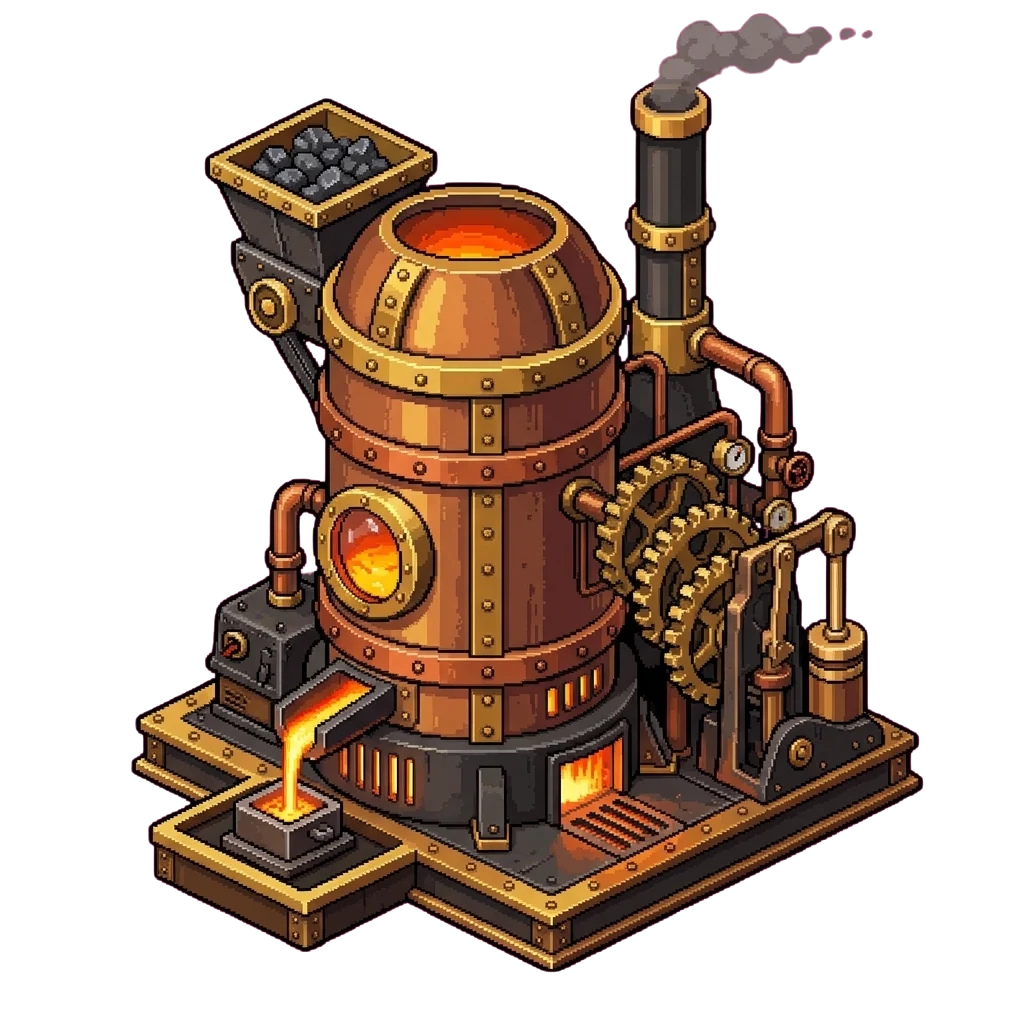
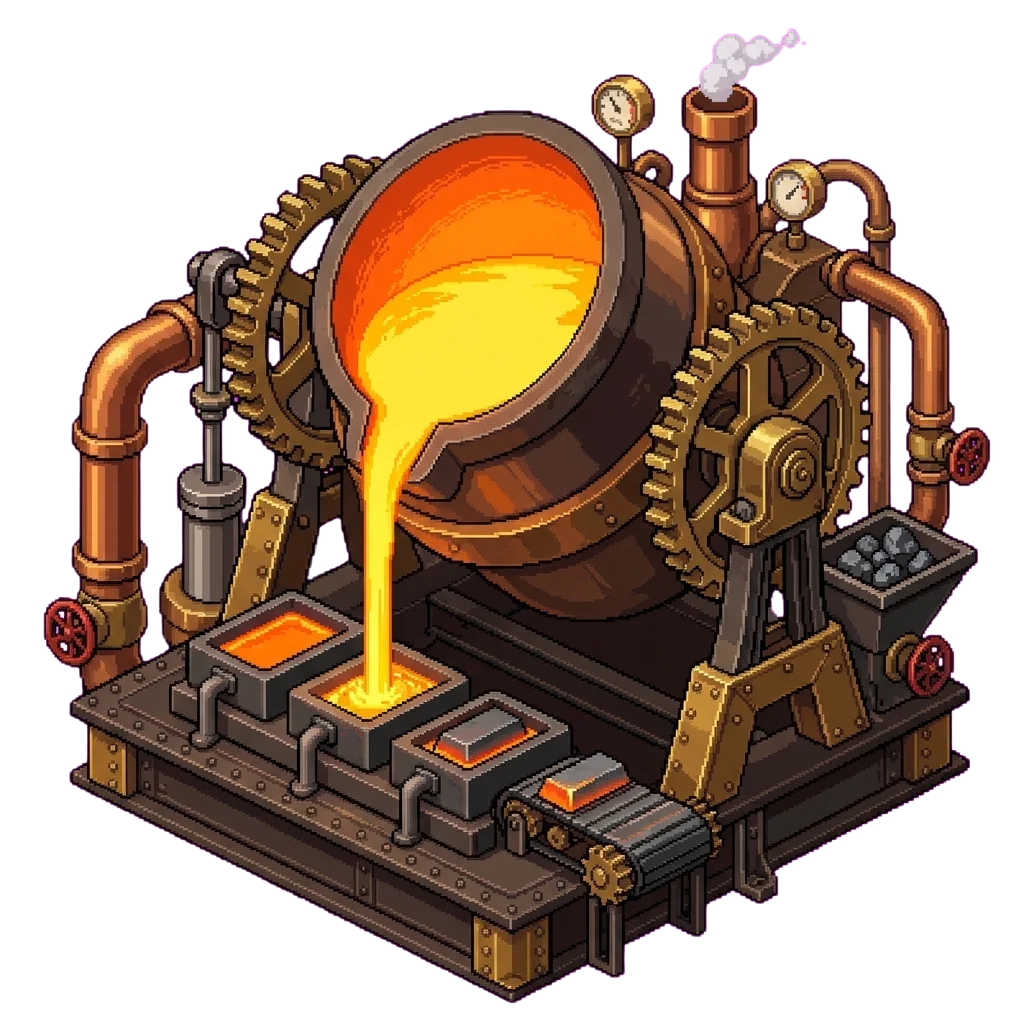
new images

diff --git a/script.js b/script.js
@@ -144,10 +144,10 @@ machines = [
         stageRequired: 2
     },
     {
-        name: "Atmospheric Processor",
+        name: "AtmosphericProcessor",
         costType: "metal",
         cost: 30,
-        location: a4,
+        location: b0,
         bought: false,
         nextBuy: "Heating Tower",
         inputs: {
@@ -163,10 +163,10 @@ machines = [
         stageRequired: 3
     },
     {
-        name: "Heating Tower",
+        name: "HeatingTower",
         costType: "metal",
         cost: 40,
-        location: a4,
+        location: b1,
         bought: false,
         nextBuy: "Pressure Generator",
         inputs: {
@@ -181,10 +181,10 @@ machines = [
         stageRequired: 3
     },
     {
-        name: "Pressure Generator",
+        name: "PressureGenerator",
         costType: "metal",
         cost: 50,
-        location: a4,
+        location: b2,
         bought: false,
         nextBuy: "Biospheric Dome",
         inputs: {
@@ -200,10 +200,10 @@ machines = [
         stageRequired: 4
     },
     {
-        name: "Biospheric Dome",
+        name: "BiosphericDome",
         costType: "metal",
         cost: 60,
-        location: a4,
+        location: b3,
         bought: false,
         nextBuy: "Something",
         inputs: {
